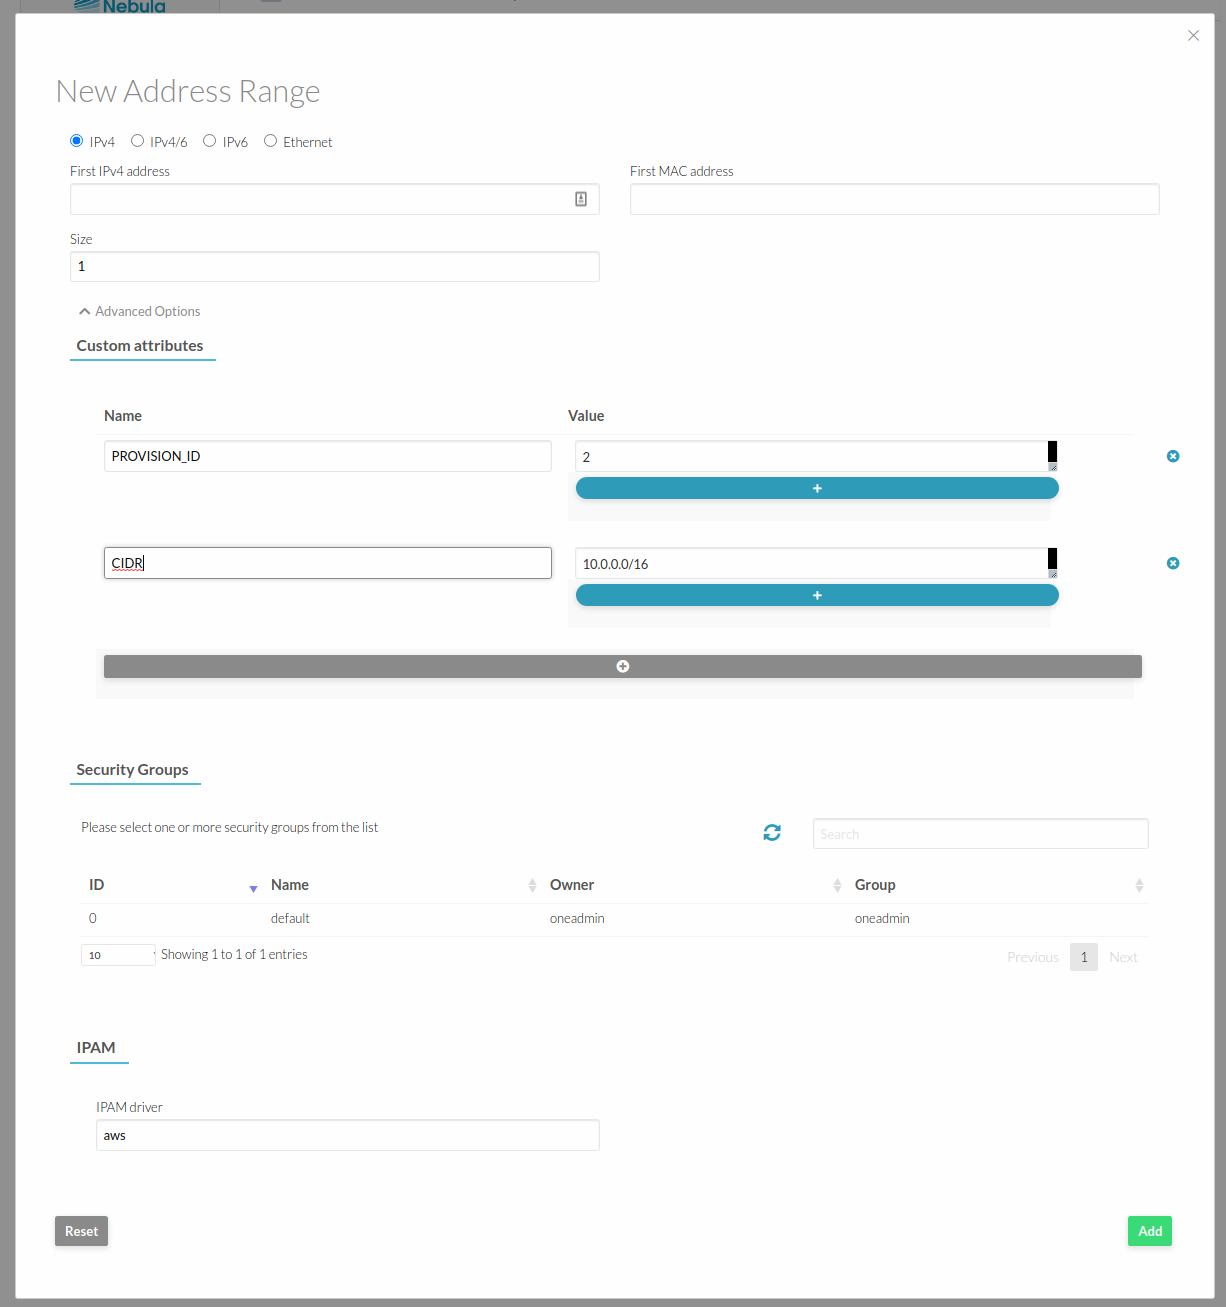
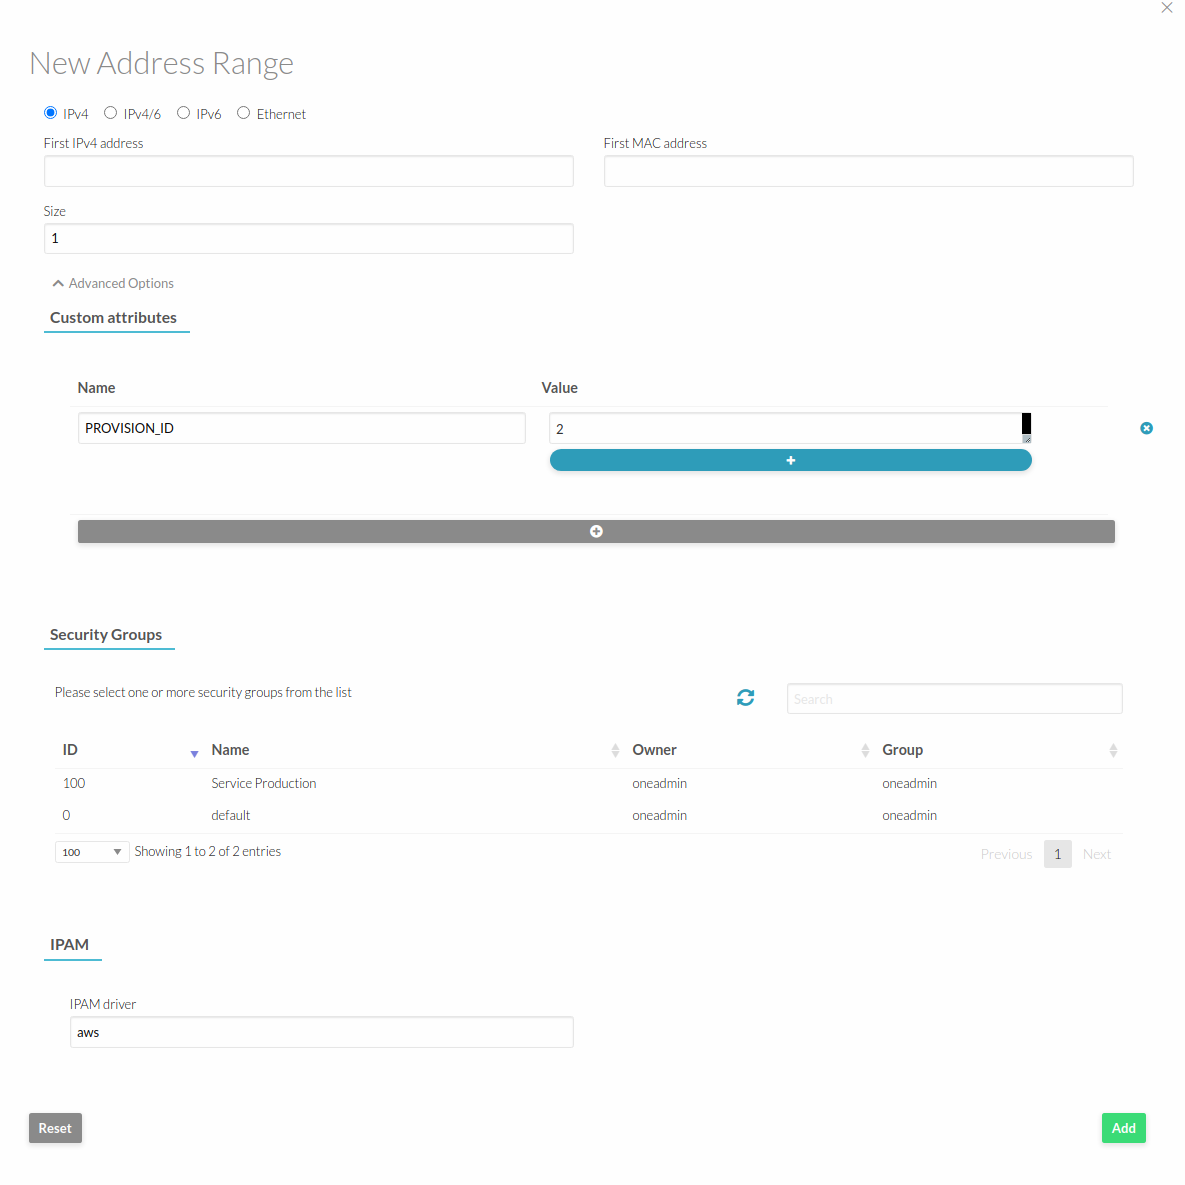
M #-: minor change in edge cluster

diff --git a/source/quick_start/operation_basics/operating_edge_cluster.rst b/source/quick_start/operation_basics/operating_edge_cluster.rst
@@ -71,7 +71,7 @@ If you want to add more IPs to the network, you need to follow these steps:
 
 |image_add_ar|
 
-.. note:: You should put your valid provision ID and CIDR.
+.. note:: You should put your valid provision ID.
 
 .. important:: You can only request 1 IP per address range.
 
